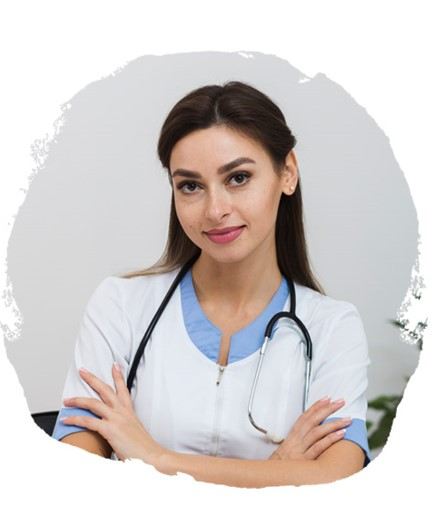
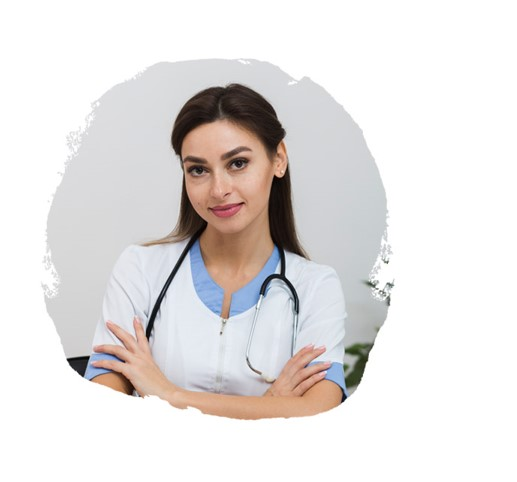
I have compluted about Us and now i will create a new file for the our Services.

diff --git a/index.html b/index.html
@@ -11,12 +11,13 @@
 	<link rel="preconnect" href="https://fonts.gstatic.com" crossorigin>
 	<link href="https://fonts.googleapis.com/css2?family=Poppins:wght@300;600&display=swap" rel="stylesheet">
     <link rel="stylesheet" type="text/css" href="..\Html_css_project\css\index.css">
+    <link rel="stylesheet" type="text/css" href="..\Html_css_project\css\section_2.css">
 	<title>Bhavan Bhavsar</title>
 </head>
 <body>
 	<section class="section_1">
 		<!-- Navbar -->
-		<div class="main_section_1">
+		<div class="main_section_1" id="Home_page">
 			<div class="main_div">
 				<div class="img_logo">
 					<img src="..\Html_css_project\assets\img\img_1.jpg">
@@ -24,8 +25,8 @@
 				<div class="nav_bar">
 					<nav class="nav_bar">
 						<ul class="nav_bar_containt d-flex">
-							<li class="nav_links"><a href="#" class="cyan">Home</a></li>
-							<li class="nav_links"><a href="#">About Us</a></li>
+							<li class="nav_links"><a href="#Home_page" class="cyan">Home</a></li>
+							<li class="nav_links"><a href="#About_Us_page">About Us</a></li>
 							<li class="nav_links"><a href="#">Services</a></li>
 							<li class="nav_links"><a href="#">Facilities</a></li>
 							<li class="nav_links"><a href="#">Doctor</a></li>
@@ -87,10 +88,35 @@
 		</div>
 	</section>
 
-	<section class="section_2">
-		<div class="main_section_2">
-			<div class="doctor_img">
-				<img src="..\Html_css_project\assets\img\Doctor_img.jpg">
+	<!-- About Us -->
+	<section class="section_2" id="About_Us_page">
+		<div class="container">
+			<div class="row main_section_2">
+				<div class="col-md-6 doctor_img">
+					<img src="..\Html_css_project\assets\img\Doctor_img.jpg" class="ml-4">
+				</div>
+				<div class="col-md-6 contant_text">
+					<h3 class="mt-5 mb-1">About Us</h3>
+					<p class="mb-5">Lorem ipsum dolor sit amet, consectetur adipisicing elit, sed do eiusmod
+					tempor incididunt ut labore et dolore magna aliqua. Ut enim ad minim veniam,
+					quis nostrud exercitation ullamco laboris nisi ut aliquip ex ea.</p>
+					<div class="text d-flex mb-3">
+						<i class="far fa-check-circle"></i>
+						<div class="about_text ml-3">
+							<h6>Recognized For Excellence</h6>
+							<p>Lorem ipsum dolor sit amet, consectetur adipisicing elit, sed do eiusmod
+							tempor incididunt ut labore.</p>
+						</div>
+					</div>
+					<div class="text d-flex">
+						<i class="far fa-check-circle"></i>
+						<div class="about_text ml-3">
+							<h6>Boost Self-Esteem and Confidence</h6>
+							<p>Lorem ipsum dolor sit amet, consectetur adipisicing elit, sed do eiusmod
+							tempor incididunt ut labore.</p>
+						</div>
+					</div>
+				</div>
 			</div>
 		</div>
 	</section>

diff --git a/css/section_2.css b/css/section_2.css
@@ -1,0 +1,21 @@
+.contant_text h3{
+	color: #4AB6CA;
+	font-weight: bolder;
+	font-size: 30px;
+}
+
+.contant_text p{
+	font-size: 13px;
+	line-height: 20px;
+}
+
+.contant_text h6{
+	color: #4AB6CA;
+	font-size: 19px;
+}
+
+.text i{
+	color: #4AB6CA;
+	font-size: 27px;
+	line-height: 23px;
+}

diff --git a/css/index.css b/css/index.css
@@ -56,6 +56,7 @@
 .div_content{
 	position: relative;
 	text-align: center;
+	margin: 0px 0px 173px 0px;
 }
 
 .text_content{
@@ -104,7 +105,6 @@
 .conatent_box{
 	position: absolute;
 	bottom: -145px;
-	width: 100%;
 	text-align: left;
 }
 

diff --git a/Javascript/js_file.js b/Javascript/js_file.js
@@ -1,0 +1,3 @@
+const fs = require('fs');
+const content = fs.readFileSync('', 'utf-8');
+console.log(content);
